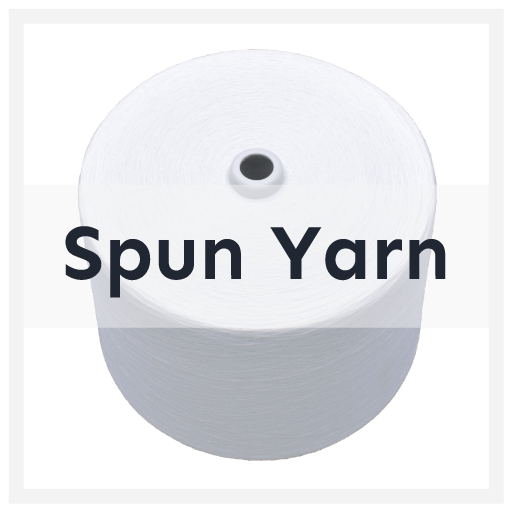
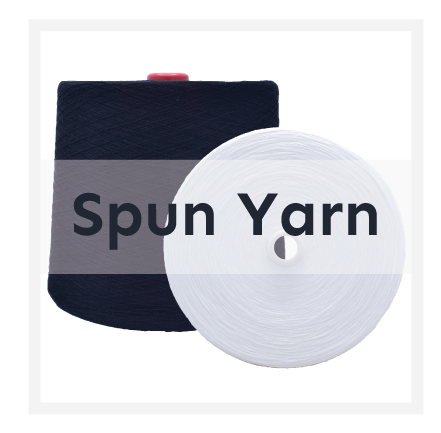
01-03-2022 13:34 By Boat

diff --git a/public/css/product-polyester.css b/public/css/product-polyester.css
@@ -1,5 +1,5 @@
 body {
-	
+
 }
 span.highlight{
 	color: var(--msBg);
@@ -40,6 +40,18 @@ span.highlight{
 #prod_poly .m-0{
 	margin: 0;
 }
+#prod_poly .ml-0{
+	margin-left: 0;
+}
+#prod_poly .mr-0{
+	margin-right: 0;
+}
+#prod_poly .mt-0{
+	margin-top: 0;
+}
+#prod_poly .mb-0{
+	margin-bottom: 0;
+}
 
 	/*-------------------------------------End Setting All-------------------------------------*/
 
@@ -52,6 +64,8 @@ span.highlight{
 }
 #prod_poly .section-two .r1{
 	padding: 0 4px;
+    display: flex;
+    flex-wrap: wrap;
 }
 #prod_poly .section-two .r1 > div[class^="col-"]{
 	padding: 8px 4px;
@@ -64,7 +78,7 @@ span.highlight{
 	#prod_poly{
 		padding: 0;
 	}
-	
+
 	/*-------------------------------------End Setting All-------------------------------------*/
 
 	#prod_poly .section-two{

diff --git a/resources/views/products/product-polyester.blade.php b/resources/views/products/product-polyester.blade.php
@@ -20,7 +20,7 @@
 			<div class="section-two">
 				<div class="container-fluid">
 					<div class="row m-0 r1 bg-gray">
-						<div class="col-xs-6 col-sm-6 col-md-4 p-0 col1">
+						<div class="col-xs-6 col-sm-6 col-md-3 p-0 col1">
 							<a href="{{ route('product.psf') }}" title="Polyester Staple Fiber">
 								<div class="img_block1">
 									<picture>
@@ -30,7 +30,7 @@
 						    	</div>
 							</a>
 						</div>
-						<div class="col-xs-6 col-sm-6 col-md-4 p-0 col1">
+						<div class="col-xs-6 col-sm-6 col-md-3 p-0 col2">
 							<a href="{{ route('product.filament') }}" title="Filament Yarn">
 								<div class="img_block1">
 									<picture>
@@ -40,7 +40,7 @@
 						    	</div>
 							</a>
 						</div>
-						<div class="col-xs-6 col-sm-6 col-md-4 p-0 col1">
+						<div class="col-xs-6 col-sm-6 col-md-3 p-0 col3">
 							<a href="{{ route('product.poy') }}" title="Partially Oriented Yarn">
 								<div class="img_block1">
 									<picture>
@@ -50,7 +50,7 @@
 						    	</div>
 							</a>
 						</div>
-						<div class="col-xs-6 col-sm-6 col-md-4 p-0 col3">
+						<div class="col-xs-6 col-sm-6 col-md-3 p-0 col4">
 							<a href="{{ route('product.fdy') }}" title="Fully Drawn Yarn">
 								<div class="img_block1">
 									<picture>
@@ -60,7 +60,7 @@
 						    	</div>
 							</a>
 						</div>
-						<div class="col-xs-6 col-sm-6 col-md-4 p-0 col2">
+						<div class="col-xs-6 col-sm-6 col-md-3 p-0 col5">
 							<a href="{{ route('product.dty') }}" title="Draw Textured Yarn">
 								<div class="img_block1">
 									<picture>
@@ -70,7 +70,7 @@
 						    	</div>
 							</a>
 						</div>
-						<div class="col-xs-6 col-sm-6 col-md-4 p-0 col7">
+						<div class="col-xs-6 col-sm-6 col-md-3 p-0 col6">
 							<a href="{{ route('product.twisted-yarn') }}" title="Twist Yarn">
 								<div class="img_block1">
 									<picture>
@@ -80,7 +80,7 @@
 						    	</div>
 							</a>
 						</div>
-						<div class="col-xs-6 col-sm-6 col-md-4 p-0 col4">
+						<div class="col-xs-6 col-sm-6 col-md-3 p-0 col7">
 							<a href="{{ route('product.monofilament') }}" title="Monofilament">
 								<div class="img_block1">
 									<picture>
@@ -90,27 +90,7 @@
 						    	</div>
 							</a>
 						</div>
-						{{-- <div class="col-xs-6 col-sm-6 col-md-4 p-0 col6">
-							<a href="{!!url('/ring-spun')!!}" title="Ring Spun">
-								<div class="img_block1">
-									<picture>
-										<source srcset="/assets/images/product/mobile/Ring-Spun-Product-Thaipolyester.webp" alt="Ring Spun" media="(max-width: 640px)" loading="lazy">
-										<img src="/assets/images/product/desktop/Ring-Spun-Product-Thaipolyester.webp" width="900" height="350" class="img-fluid ab-img" alt="Ring Spun" loading="lazy">
-							        </picture>
-						    	</div>
-							</a>
-						</div> --}}
-						{{-- <div class="col-xs-6 col-sm-6 col-md-4 p-0 col5">
-							<a href="{!!url('/open-end')!!}" title="Open End">
-								<div class="img_block1">
-									<picture>
-										<source srcset="/assets/images/product/mobile/Open-End-Product-Thaipolyester.webp" alt="Open End" media="(max-width: 640px)" loading="lazy">
-										<img src="/assets/images/product/desktop/Open-End-Product-Thaipolyester.webp" width="900" height="350" class="img-fluid ab-img" alt="Open End" loading="lazy">
-							        </picture>
-						    	</div>
-							</a>
-						</div> --}}
-						<div class="col-xs-6 col-sm-6 col-md-4 p-0 col8">
+						<div class="col-xs-6 col-sm-6 col-md-3 p-0 col8">
 							<a href="{!!url('/dope-dyed')!!}" title="Dope Dyed">
 								<div class="img_block1">
 									<picture>
@@ -120,12 +100,32 @@
 						    	</div>
 							</a>
 						</div>
-						<div class="col-xs-6 col-sm-6 col-md-4 p-0 col8">
+						<div class="col-xs-6 col-sm-6 col-md-3 p-0 col9 mr-0">
 							<a href="{{ route('product.spun-yarn') }}" title="Spun Yarn">
 								<div class="img_block1">
 									<picture>
 										<source srcset="/assets/images/product/mobile/Spun-Yarn-Polyester-Thaipolyester.webp?v={{ time() }}" alt="Spun Yarn Polyester Thaipolyester" media="(max-width: 640px)" loading="lazy">
 										<img src="/assets/images/product/desktop/Spun-Yarn-Polyester-Thaipolyester.webp?v={{ time() }}" width="900" height="350" class="img-fluid ab-img" alt="Spun Yarn Polyester Thaipolyester" loading="lazy">
+							        </picture>
+						    	</div>
+							</a>
+						</div>
+                        <div class="col-xs-6 col-sm-6 col-md-3 p-0 col10 m-0">
+							<a href="{!!url('/ring-spun')!!}" title="Ring Spun">
+								<div class="img_block1">
+									<picture>
+										<source srcset="/assets/images/product/mobile/Ring-Spun-Yarn-Polyester-Thaipolyester.webp" alt="Ring Spun" media="(max-width: 640px)" loading="lazy">
+										<img src="/assets/images/product/desktop/Ring-Spun-Yarn-Polyester-Thaipolyester.webp" width="900" height="350" class="img-fluid ab-img" alt="Ring Spun" loading="lazy">
+							        </picture>
+						    	</div>
+							</a>
+						</div>
+						<div class="col-xs-6 col-sm-6 col-md-3 p-0 col11 ml-0">
+							<a href="{!!url('/open-end')!!}" title="Open End">
+								<div class="img_block1">
+									<picture>
+										<source srcset="/assets/images/product/mobile/OE-Open-End-Spun-Yarn-Polyester-Thaipolyester.webp" alt="Open End" media="(max-width: 640px)" loading="lazy">
+										<img src="/assets/images/product/desktop/OE-Open-End-Spun-Yarn-Polyester-Thaipolyester.webp" width="900" height="350" class="img-fluid ab-img" alt="Open End" loading="lazy">
 							        </picture>
 						    	</div>
 							</a>
